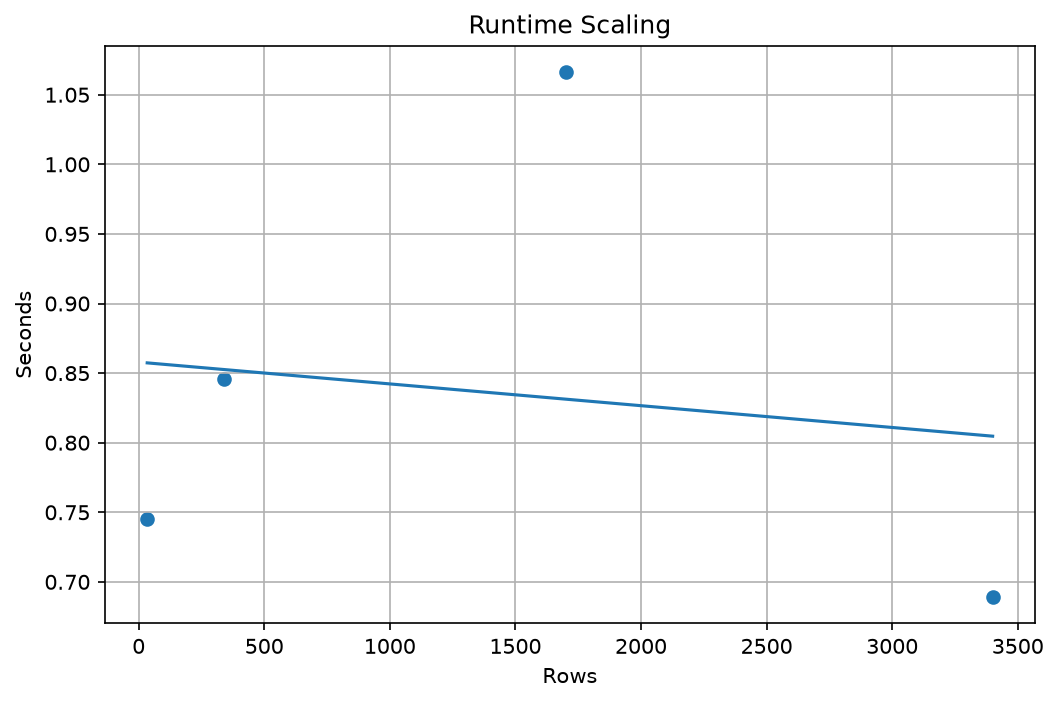
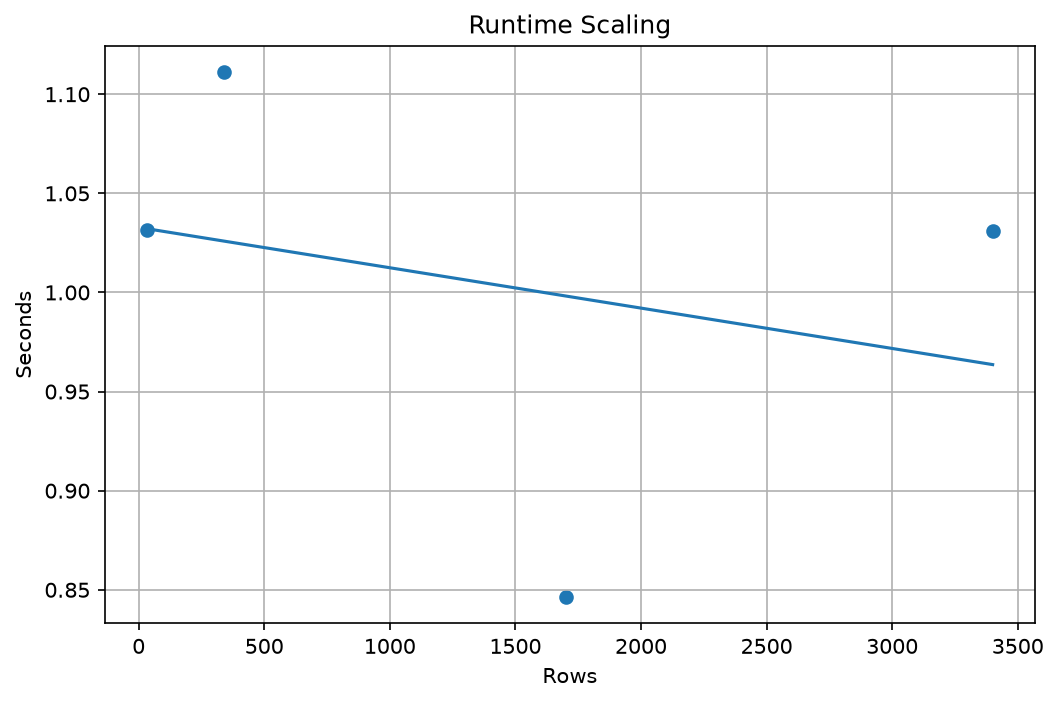
Functions

diff --git a/main.py b/main.py
@@ -670,25 +670,18 @@ p_vol = dvol.select("dt", "tot_vol", "ma20", "weird_vol").toPandas()
 # %%
 # Closing Price Chart
 os.makedirs("charts", exist_ok=True)
-plt.figure(figsize=(12, 5))
-plt.plot(p_px["dt"], p_px["close"])
-plt.title("AXSM Closing Price")
-plt.xlabel("Date")
-plt.ylabel("Close")
-plt.grid(True)
-plt.savefig("charts/01_closing_price.png", dpi=150, bbox_inches="tight")
-plt.show()
-
+charts.plotlinegraph("AXSM Closing Price", "charts/02_closing_price.png", "Date", "Close", p_px)
 # %%
 # Histogram
-plt.figure(figsize=(10, 5))
-plt.hist(p_px["ret"].dropna(), bins=35)
-plt.title("AXSM Daily Log Returns")
-plt.xlabel("Log Return")
-plt.ylabel("Count")
-plt.grid(True)
-plt.savefig("charts/02_returns_histogram.png", dpi=150, bbox_inches="tight")
-plt.show()
+charts.plothistogram("AXSM Daily Log Returns", "charts/02_returns_histogram.png", "Log Return", "Count", p_px)
+#plt.figure(figsize=(10, 5))
+#plt.hist(p_px["ret"].dropna(), bins=35)
+#plt.title("AXSM Daily Log Returns")
+#plt.xlabel("Log Return")
+#plt.ylabel("Count")
+#plt.grid(True)
+#plt.savefig("charts/02_returns_histogram.png", dpi=150, bbox_inches="tight")
+#plt.show()
 
 # %%
 # Market vs Model for Calls

diff --git a/graphing/charts.py b/graphing/charts.py
@@ -12,14 +12,15 @@ def plotbody(title, filename, figsize, xlab="time", ylab="Dollars"):
 
 
 def plotlinegraph(title, filename, xlab, ylab, p_px):
-    plotbody(title, filename, (12, 15), xlab="time", ylab="Dollars")
+    plotbody(title, filename, (12, 15), xlab=xlab, ylab=ylab)
     plt.plot(p_px["dt"], p_px["close"])
 
 
-def plothistogram(title, filename, xlab, ylab):
+def plothistogram(title, filename, xlab, ylab, p_px):
+    plotbody(title, filename, (10, 5), xlab=xlab, ylab=ylab)
     plt.hist(p_px["ret"].dropna(), bins=35)
 
-
+'''
 plt.figure(figsize=(12, 5))
 plt.plot(p_px["dt"], p_px["close"])
 plt.title("AXSM Closing Price")
@@ -180,3 +181,5 @@ plt.show()
 
 # %%
 # Saving outputs
+
+'''
